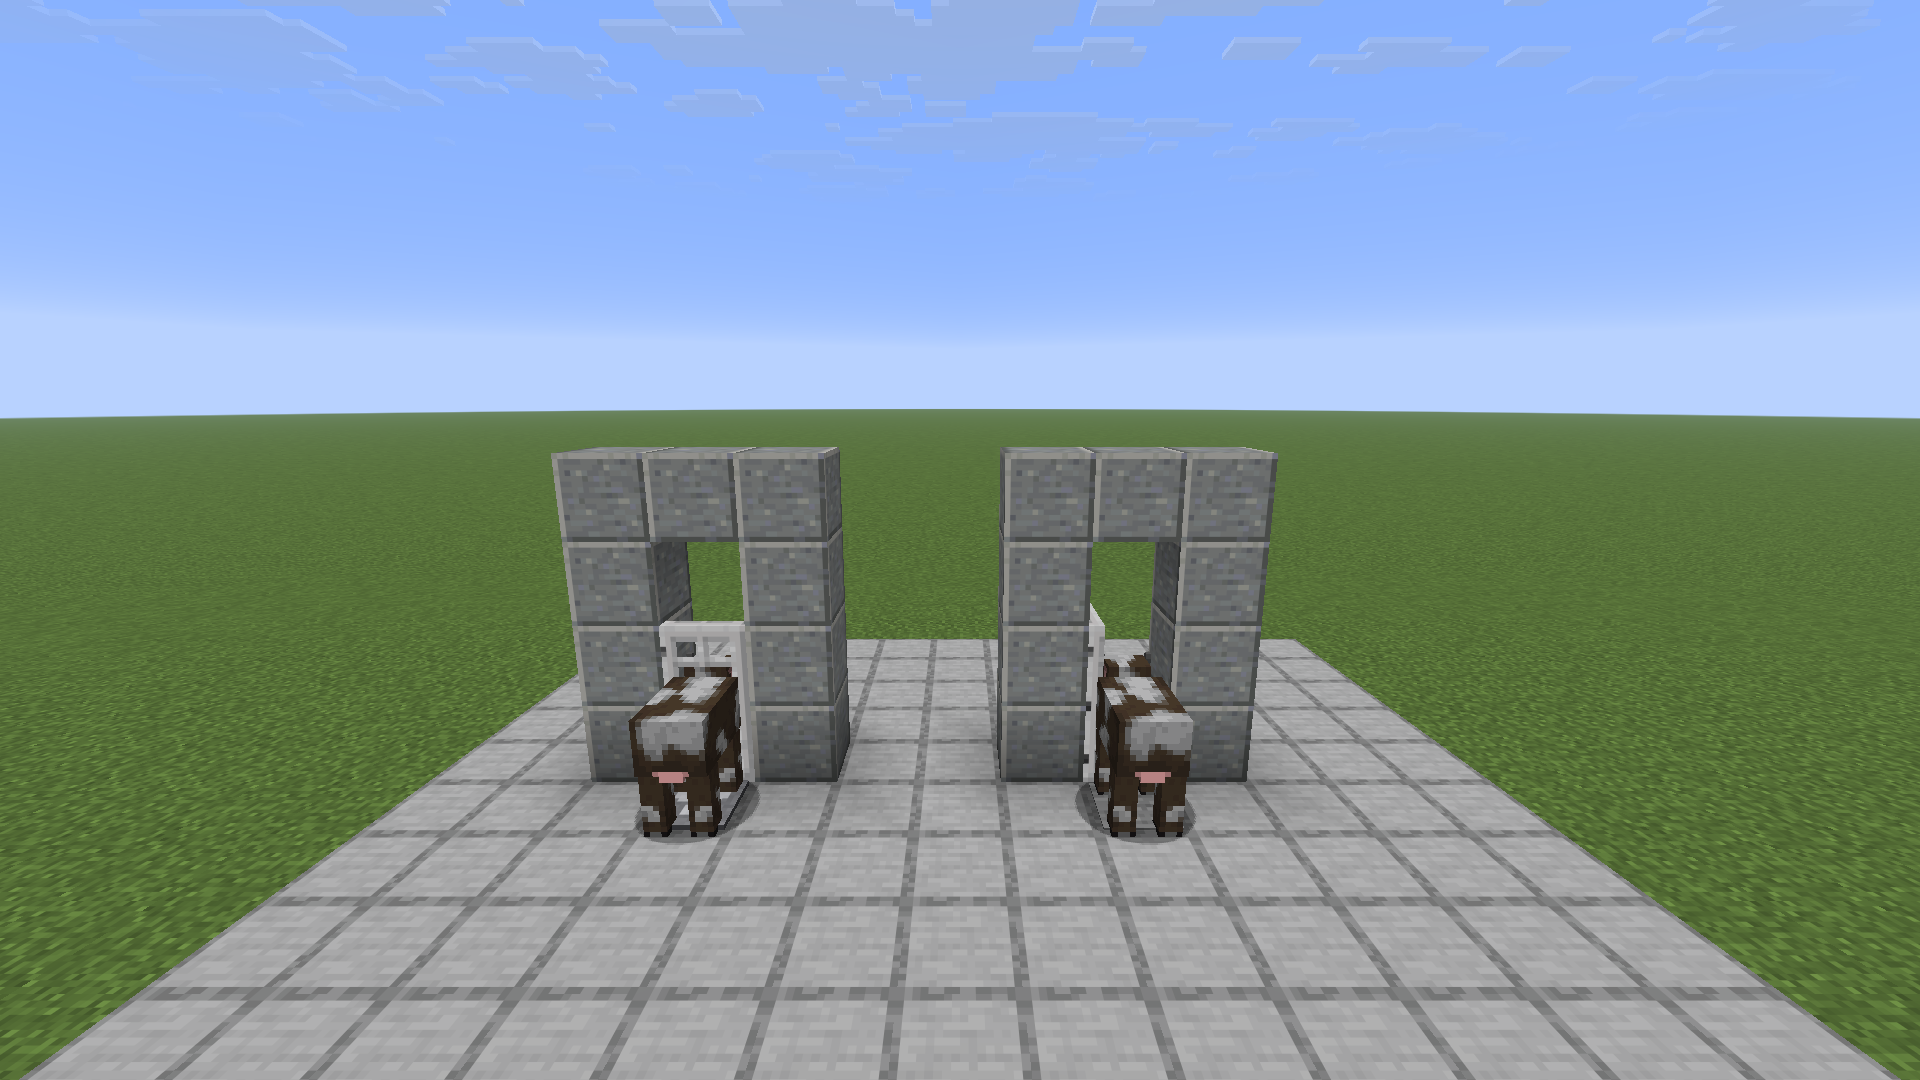
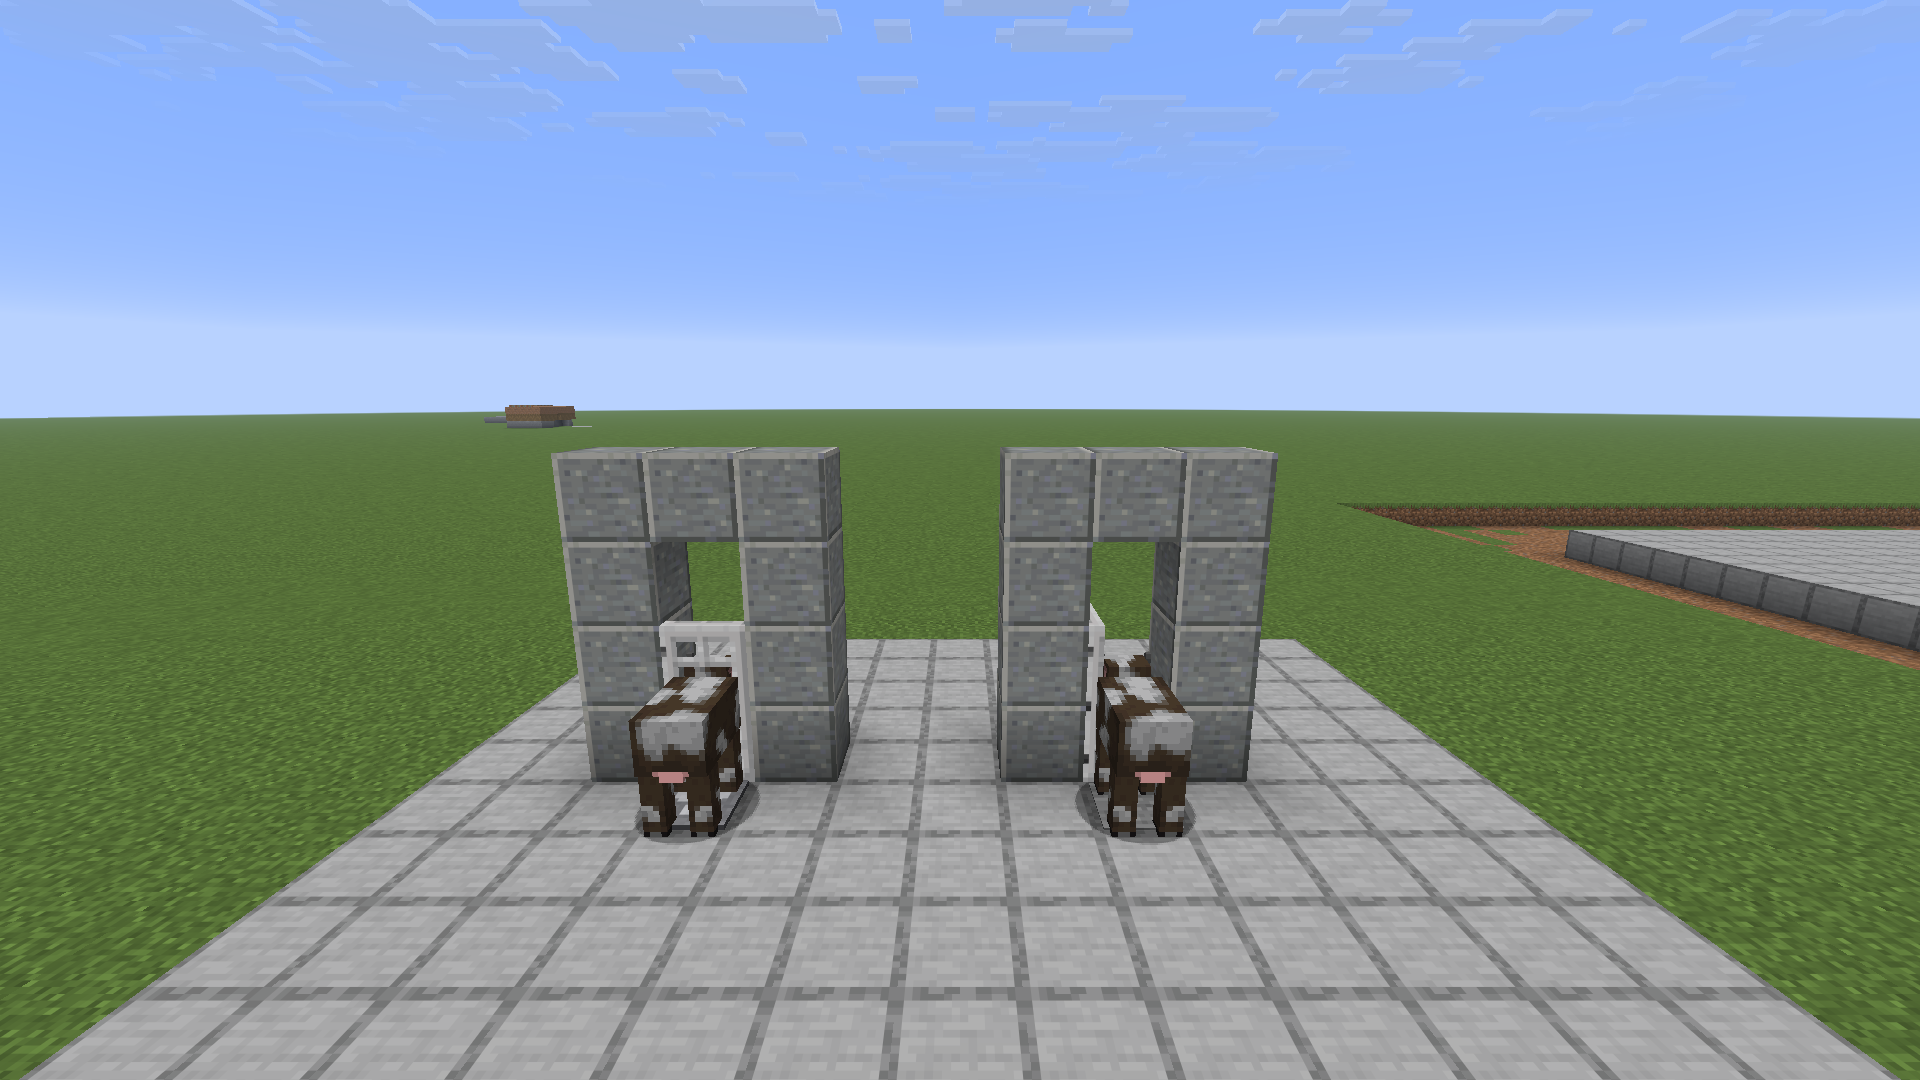
chore: v0.4.0 "Common Ground", and a gallery that shows the mod
Four entries were sitting in Unreleased: the terrain slabs, grass and mycelium,
the woodcutter taking logs, and the sticks-buttons-shelves audit. Ten features
on main, all of them now in an uploaded build.

THE GALLERY WAS THREE RELEASES BEHIND and showed only pressure plates - five of
the ten features had shipped since those three images were taken. It now has a
terrain slab scene, every family beside the block it is half of, and a
woodcutter scene with a log going in and its cuts coming out.

The slab scene is the comparison rather than the slabs alone, deliberately: this
feature draws no art and points at vanilla textures, so a wrong id shows up only
when the two are side by side.

Three things the first captures got wrong, each fixed in the script rather than
by hand. The clear was sized to the subject, so two stray blocks from an
unrelated experiment sat in the foreground and grass the mod own slabs had
spread onto the surrounding dirt during testing showed along the border. The
woodcutter was laid out flat and read as a scattered row of brown blocks, so it
is on a plinth now with everything else a step below. And the sequence ran
backwards, because the camera faces +Z and positive X is therefore screen-left.

Nickname is the terrain slabs: half blocks of the ground, which is the first
thing in this mod that is about what you build ON rather than what you build
WITH.

Claude-Session: https://claude.ai/code/session_01A26TwjpveyT7vBPHxjNXuz

diff --git a/tools/shoot_gallery.py b/tools/shoot_gallery.py
@@ -26,6 +26,7 @@ from pathlib import Path
 
 sys.path.insert(0, str(Path(__file__).resolve().parent))
 from plate_variants import VARIANTS, block_id  # noqa: E402
+from terrain_slab_variants import VARIANTS as SLABS  # noqa: E402
 from shoot_plates import GROUND_Y, PLATE_Y, cmd, make_safe, run  # noqa: E402
 
 REPO = Path(__file__).resolve().parent.parent
@@ -164,7 +165,75 @@ def scene_redstone() -> str:
     return "03-redstone"
 
 
-SCENES = [scene_family, scene_the_point, scene_redstone]
+def scene_terrain_slabs() -> str:
+    """Every terrain slab beside the block it is half of.
+
+    The comparison is the point. A slab of dirt has to read as dirt, and the only way to show that
+    is to put the two side by side - which is also the check that catches a wrong texture id, since
+    the mod draws no art for these and points at vanilla's own textures.
+    """
+    first_x = -(len(SLABS) // 2)
+    blocks_z, bottom_z, top_z = 3, 6, 9
+    # CLEARED WELL WIDER THAN THE SUBJECT. The first capture had two stray blocks from an unrelated
+    # experiment sitting in the foreground corners, and patches of grass the mod's own slabs had
+    # spread onto the surrounding dirt while it was being tested. Both were outside a clear sized to
+    # the scene, and both are the sort of thing that only shows up once the picture is taken.
+    clear(first_x - 14, blocks_z - 12, first_x + len(SLABS) + 14, top_z + 10)
+
+    for index, v in enumerate(SLABS):
+        x = first_x + index
+        # Smooth stone under every column: three of these families fall, and a scene built over air
+        # would photograph them mid-drop.
+        for z in (blocks_z, bottom_z, top_z):
+            cmd(f"setblock {x} {GROUND_Y} {z} minecraft:smooth_stone", strict=False)
+        cmd(f"setblock {x} {PLATE_Y} {blocks_z} minecraft:{v.family}")
+        cmd(f"setblock {x} {PLATE_Y} {bottom_z} flattsthings:{v.block_id}[type=bottom]")
+        cmd(f"setblock {x} {PLATE_Y} {top_z} flattsthings:{v.block_id}[type=top]")
+
+    require(f"{first_x} {PLATE_Y} {bottom_z} flattsthings:{SLABS[0].block_id}[type=bottom]",
+            "the first terrain slab is a bottom slab")
+    look_from(first_x + len(SLABS) / 2 - 0.5, PLATE_Y + 7, blocks_z - 8, 0, 36)
+    shot("04-terrain-slabs")
+    return "04-terrain-slabs"
+
+
+def scene_woodcutter() -> str:
+    """The woodcutter raised on a plinth, with a log going in and its cuts coming out.
+
+    Laid out flat the first time, which read as a scattered row of brown blocks with the bench lost
+    among them. The bench is the product here, so it sits a block higher than everything else and
+    the material reads left to right: log in, planks and the shapes they cut into, out.
+    """
+    clear(-18, -14, 18, 16)
+    for x in range(-9, 10):
+        for z in range(0, 10):
+            cmd(f"setblock {x} {GROUND_Y} {z} minecraft:smooth_stone", strict=False)
+
+    # The bench, up a step so it is not one silhouette among many.
+    cmd(f"setblock 0 {PLATE_Y} 6 minecraft:smooth_stone")
+    cmd(f"setblock 0 {PLATE_Y + 1} 6 flattsthings:woodcutter")
+
+    # In on the left, out on the right, each on its own plinth so the row reads as a sequence.
+    # POSITIVE X IS SCREEN-LEFT here, because the camera faces +Z. Laying the input out at negative
+    # x read the sequence backwards in the first capture: the products came first and the log last.
+    going_in = ("oak_log", "oak_planks")
+    coming_out = ("oak_stairs", "oak_slab", "oak_button", "stripped_oak_log")
+    for index, block in enumerate(going_in):
+        x = 4 - index
+        cmd(f"setblock {x} {PLATE_Y} 6 minecraft:smooth_stone")
+        cmd(f"setblock {x} {PLATE_Y + 1} 6 minecraft:{block}")
+    for index, block in enumerate(coming_out):
+        x = -2 - index
+        cmd(f"setblock {x} {PLATE_Y} 6 minecraft:smooth_stone")
+        cmd(f"setblock {x} {PLATE_Y + 1} 6 minecraft:{block}")
+
+    require(f"0 {PLATE_Y + 1} 6 flattsthings:woodcutter", "the woodcutter is placed")
+    look_from(0.5, PLATE_Y + 3.1, 1.6, 0, 13)
+    shot("05-the-woodcutter")
+    return "05-the-woodcutter"
+
+
+SCENES = [scene_family, scene_the_point, scene_redstone, scene_terrain_slabs, scene_woodcutter]
 
 
 def main() -> None:

diff --git a/CHANGELOG.md b/CHANGELOG.md
@@ -1,18 +1,20 @@
 # Changelog
 
-**Status:** current, reviewed 2026-09-07. **v0.3.0 was uploaded to CurseForge on 2026-09-07 as an
-ALPHA**, after v0.2.0 the same day and v0.1.0 on 2026-09-05. The project is still Under Review: a new
-project is not visible to anyone and its files do not synchronize across CurseForge until a moderator
-approves it, so every one of these is uploaded rather than released.
+**Status:** current, reviewed 2026-09-08. **v0.4.0 was uploaded to CurseForge on 2026-09-08 as an
+ALPHA**, after v0.3.0 and v0.2.0 on 2026-09-07 and v0.1.0 on 2026-09-05. The project is still Under
+Review: a new project is not visible to anyone and its files do not synchronize across CurseForge
+until a moderator approves it, so every one of these is uploaded rather than released.
 
-**Alpha is the honest label for the 0.x line**, and the publish task hardcodes it. Nine features now,
-two of them (the tool slot strip and the woodcutter's screen) with client code no automated test can
-look at, and none of it has been through a long play session by anybody but the author.
+**Alpha is the honest label for the 0.x line**, and the publish task hardcodes it. Ten features now,
+three of them (the tool slot strip, the woodcutter's screen and the grass slab's biome tint) with
+client code no automated test can reach, and none of it has been through a long play session by
+anybody but the author. The tint is the sharpest example the repo has: it shipped rendering flat grey
+with all 144 tests passing, and was found by looking at it.
 
 All notable changes to this project are documented here. Format follows
 [Keep a Changelog](https://keepachangelog.com/en/1.1.0/).
 
-## Unreleased
+## v0.4.0 - 2026-09-08 - "Common Ground"
 
 ### Added
 

diff --git a/CLAUDE.md b/CLAUDE.md
@@ -7,10 +7,10 @@ repository.
 9.5.1 via moddev 2.0.141. A grab bag of blocks, tools and small features vanilla never shipped. Mod
 id / package: `flattsthings` / `com.flatts.flattsthings`.
 
-**Status:** v0.3.0 uploaded to CurseForge 2026-09-07 as an **alpha**, after v0.2.0 the same day and
-v0.1.0 on 2026-09-05. The project is still Under Review, so nothing is visible to players yet. **Ten
-features on `main`**, the terrain slabs being the newest and the only one not yet in an uploaded
-build. Last reviewed 2026-09-07.
+**Status:** v0.4.0 uploaded to CurseForge 2026-09-08 as an **alpha**, after v0.3.0 and v0.2.0 on
+2026-09-07 and v0.1.0 on 2026-09-05. The project is still Under Review, so nothing is visible to
+players yet. **Ten features on `main`**, all of them in an uploaded build. Last reviewed
+2026-09-08.
 
 | Feature | Config id | Where it is written up |
 | --- | --- | --- |

diff --git a/README.md b/README.md
@@ -1,7 +1,7 @@
 # Flatts's Things
 
-**Status:** v0.3.0 uploaded to CurseForge 2026-09-07 as an alpha. The project is still Under Review,
-so nothing is downloadable by anyone yet. Ten features, the newest not yet uploaded. Last reviewed 2026-09-07.
+**Status:** v0.4.0 uploaded to CurseForge 2026-09-08 as an alpha. The project is still Under Review,
+so nothing is downloadable by anyone yet. Ten features. Last reviewed 2026-09-08.
 
 A grab bag of blocks, tools and small features that vanilla Minecraft never shipped.
 

diff --git a/docs/curseforge_page.md b/docs/curseforge_page.md
@@ -117,7 +117,7 @@ tab, and the behaviour stops. It never removes anything you have already built o
 
 ### Not in yet
 
-Nine features, and each one had to earn its place on its own. More will follow the same way.
+Ten features, and each one had to earn its place on its own. More will follow the same way.
 
 ---
 
